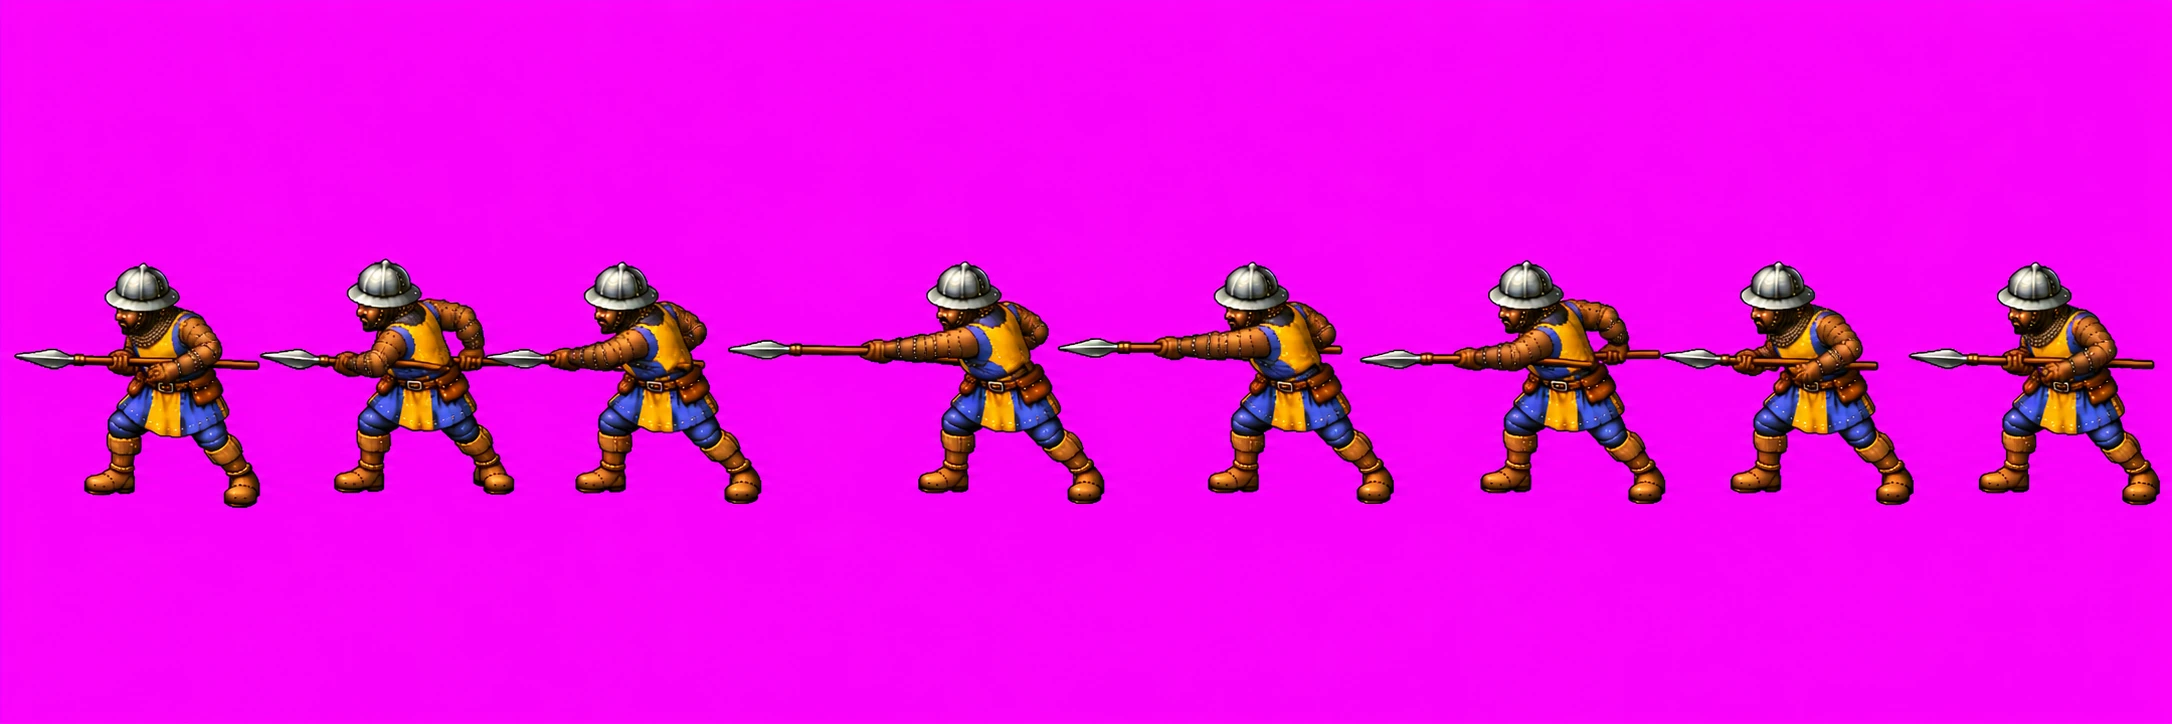
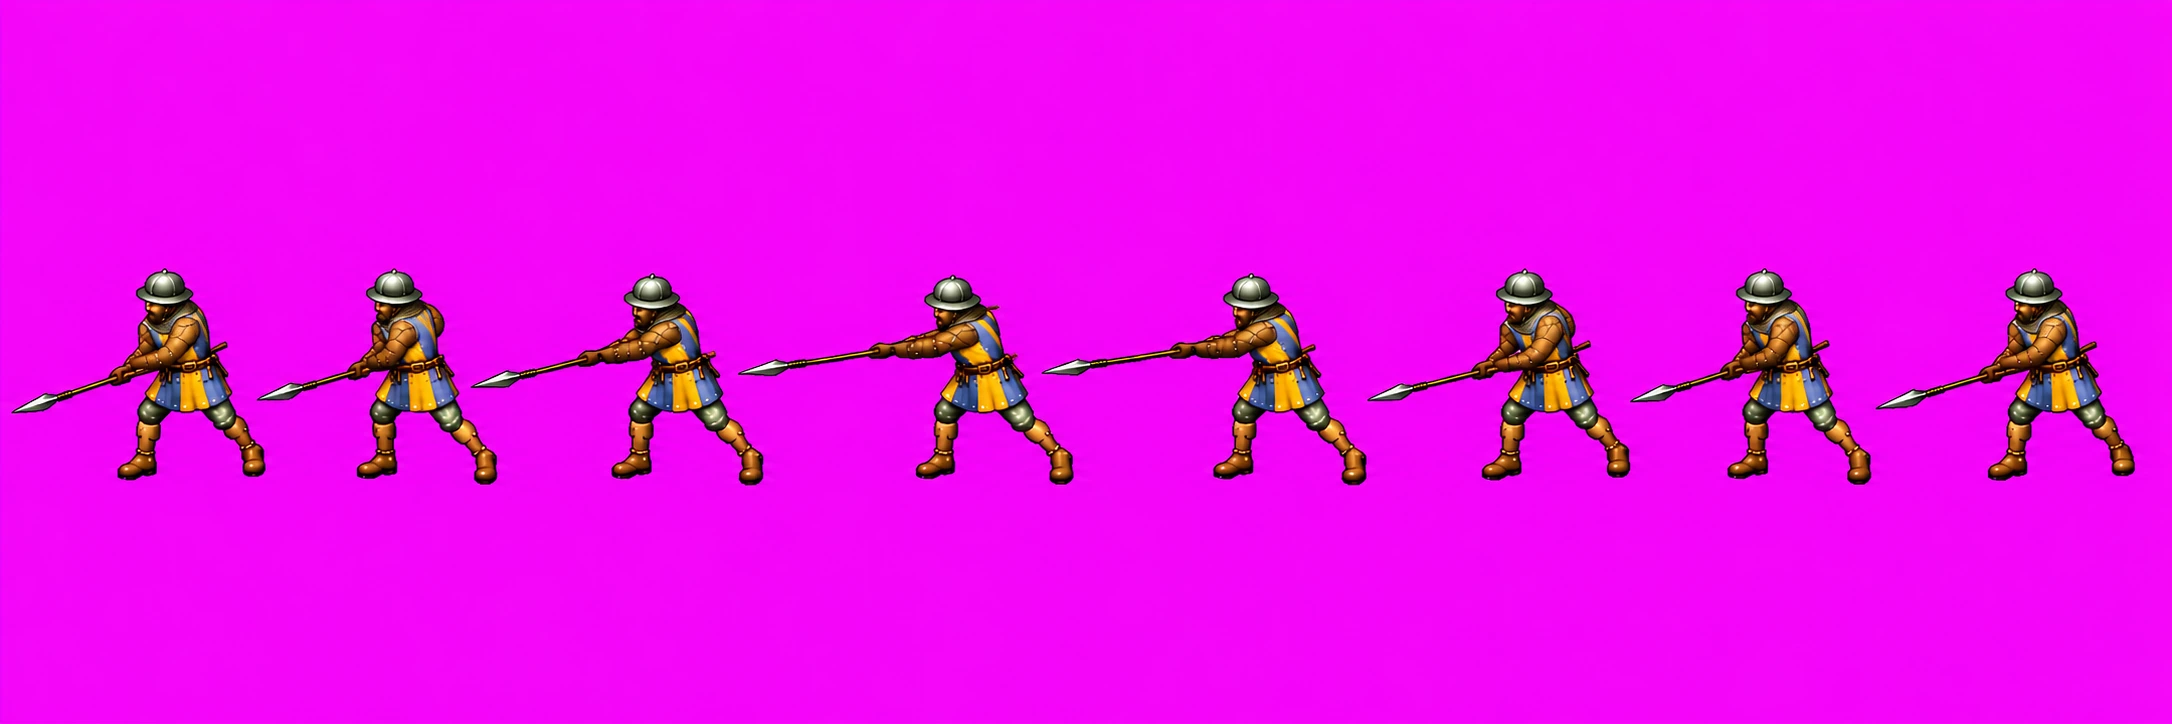
Aanvallen W van de speerman in de stijl van het staande vel
Met dezelfde houding en steek, maar mat, met een grijze helm en de bouw van vel 1. De punt raakt de buurman op 2 pixels
na. Staan en lopen blijven pixel voor pixel hetzelfde.

Changed region(s): [[0.0, 0.3646, 1.0, 0.6989]]

diff --git a/ontwerp/beelden-van-de-generator.md b/ontwerp/beelden-van-de-generator.md
@@ -396,6 +396,9 @@ generator van 1,7 MB; op spelmaat is het verschil ruis) en lopen in het spel. Wa
   of his own head": de punt op (71, -69) tegen (64, -72) op twee tegels, maar hij stond meer van opzij dan lopen NO.
   Daarna schuin van achteren ("redo 15: keep the thrust [...] exactly, but he faces north-east [...] seen from behind at
   three-quarters, exactly like the walking NE sheet"): de punt op (65, -85), 13 pixels boven het midden van de romp.
+- **De stijl van de aanvallen** (22 okt): aanvallen W, NW en N kwamen nog uit de eerste, glimmende reeks; opnieuw met
+  "keep the pose, the spear and the thrust of your last version [...] exactly, but draw him with exactly the style and
+  proportions of the attached sheet 1 [...]". Aanvallen W kwam zo goed: de punt op (-66, -35) tegen (-64, -40).
   Aanvallen ZW kwam eerst van opzij (als W) en met twee beelden tegen elkaar; goed met "redo 11 again: this is
   Attacking SW, not W. He faces south-west, down and to the left, TOWARDS the viewer at three-quarters [...] the spear
   [...] pointing down and to the left at about 30 degrees below horizontal [...] almost as far to the left of his body as
